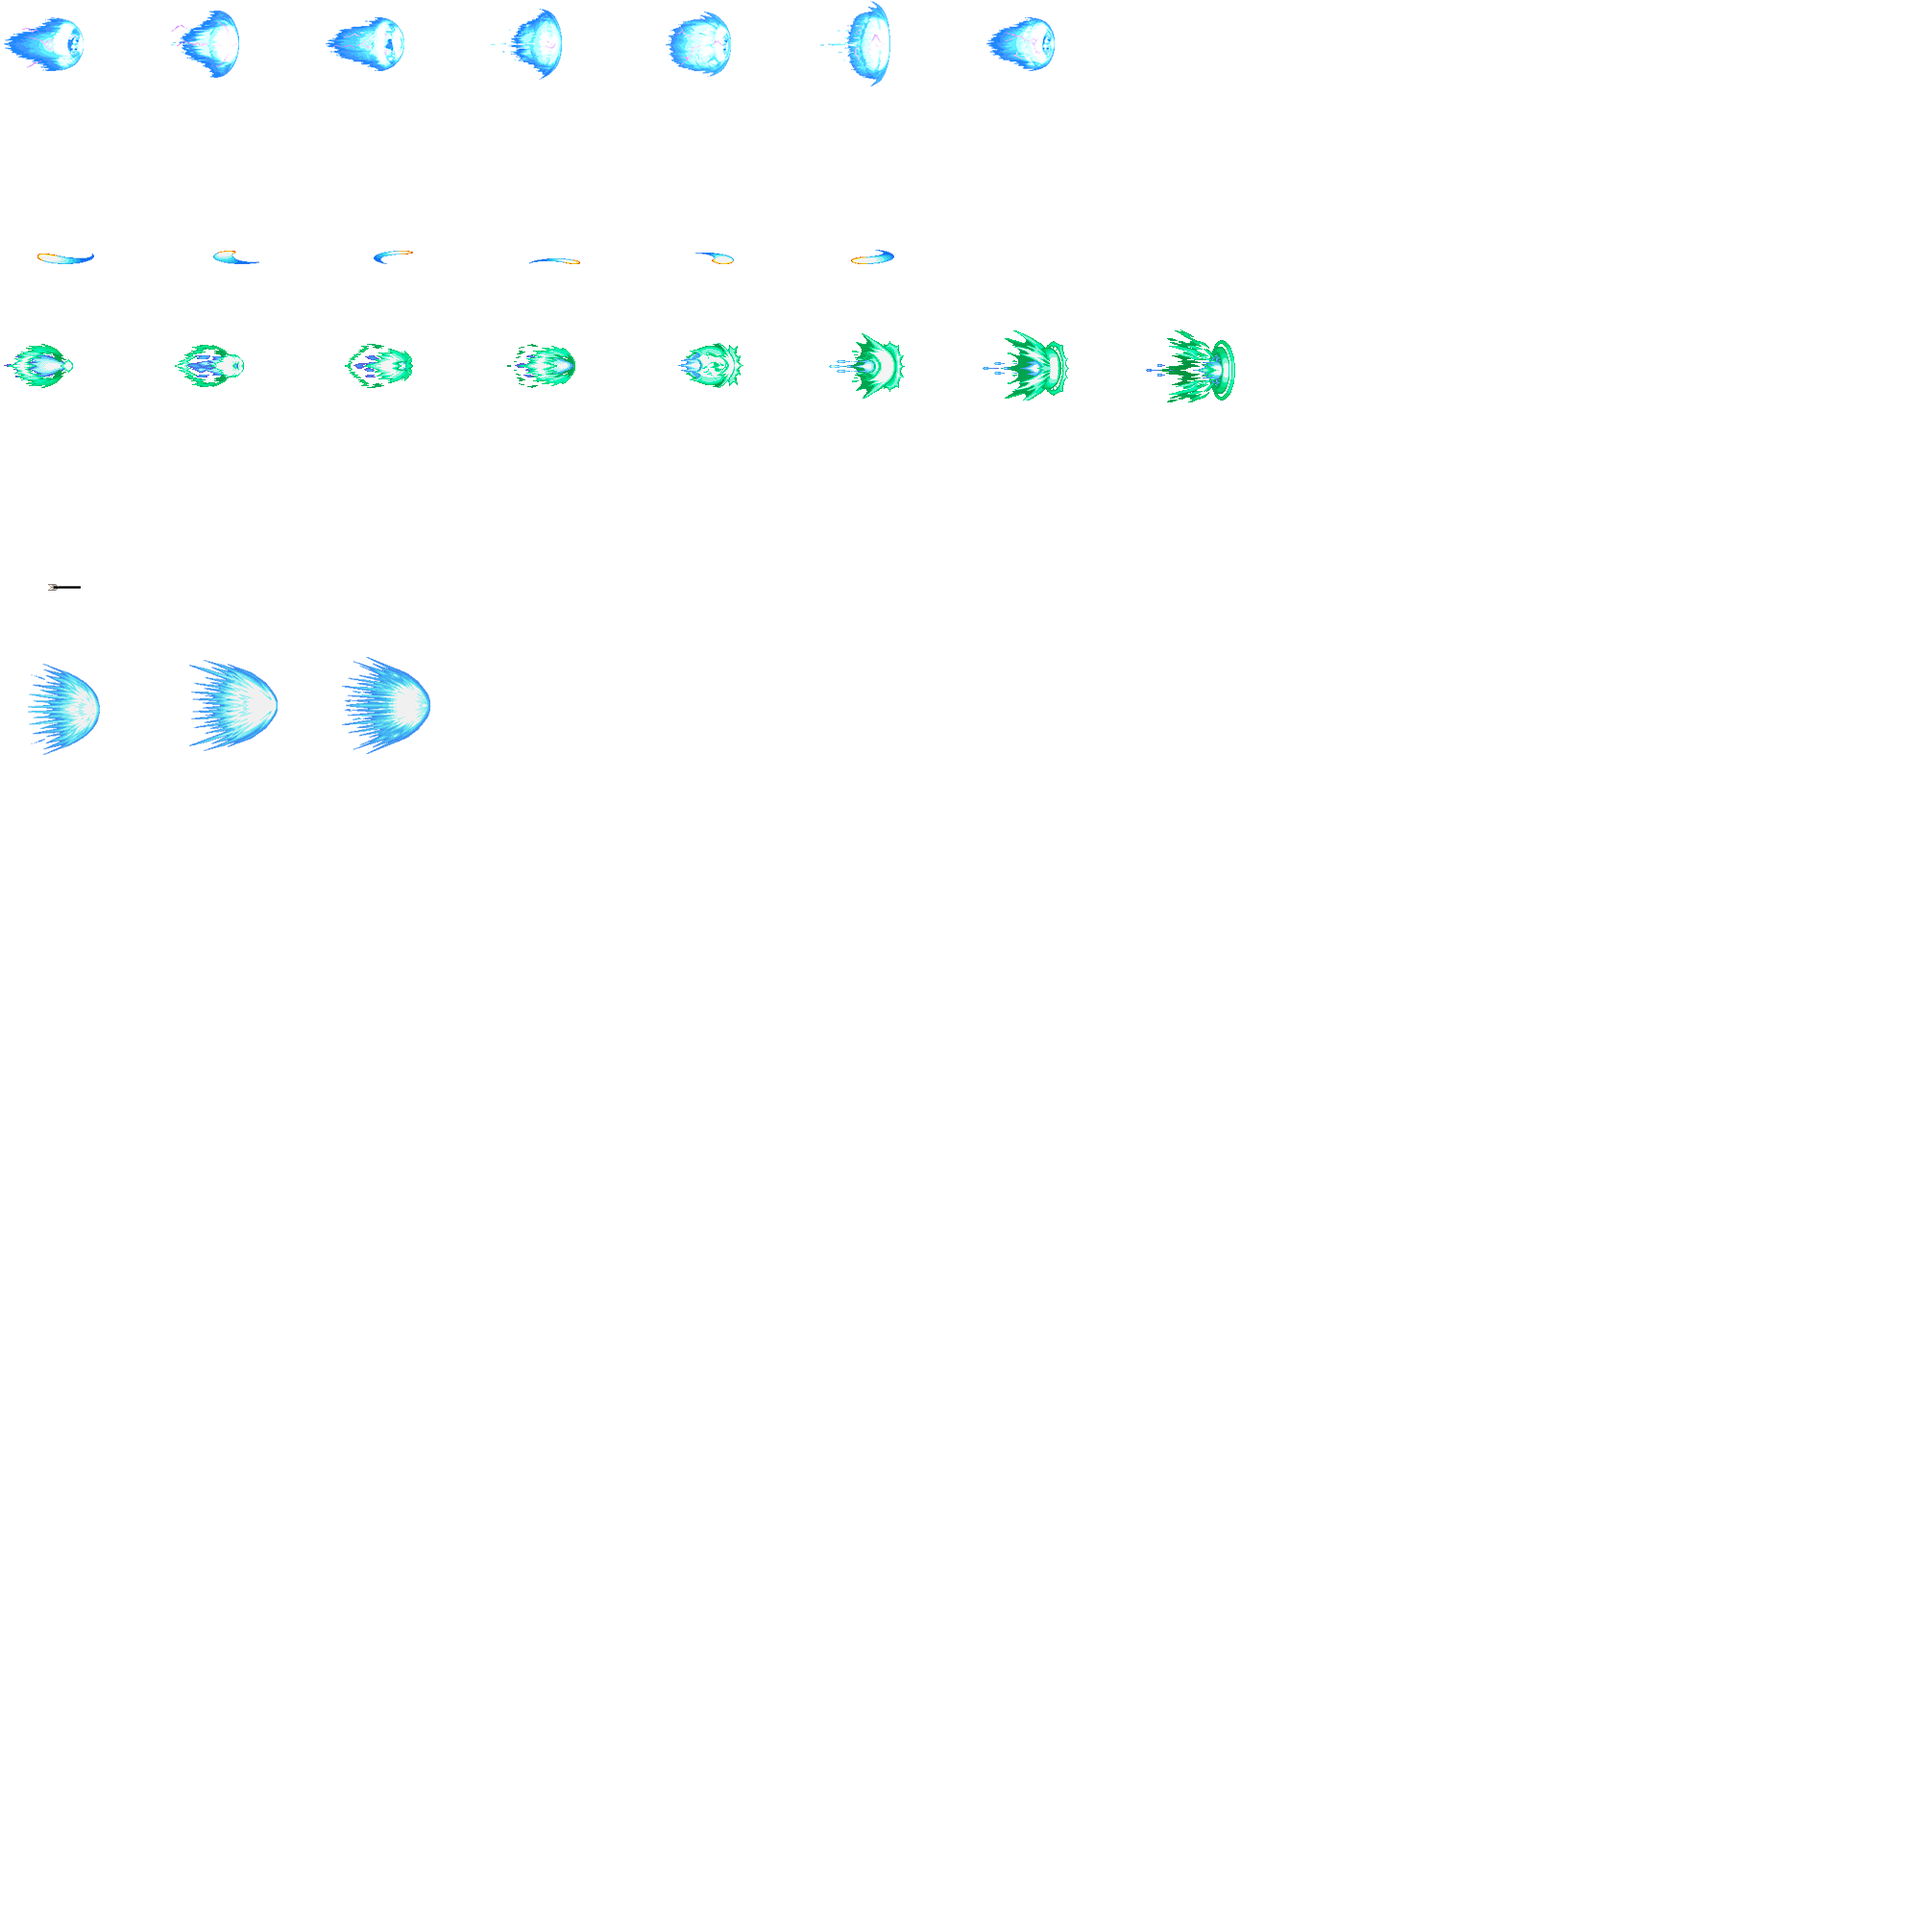
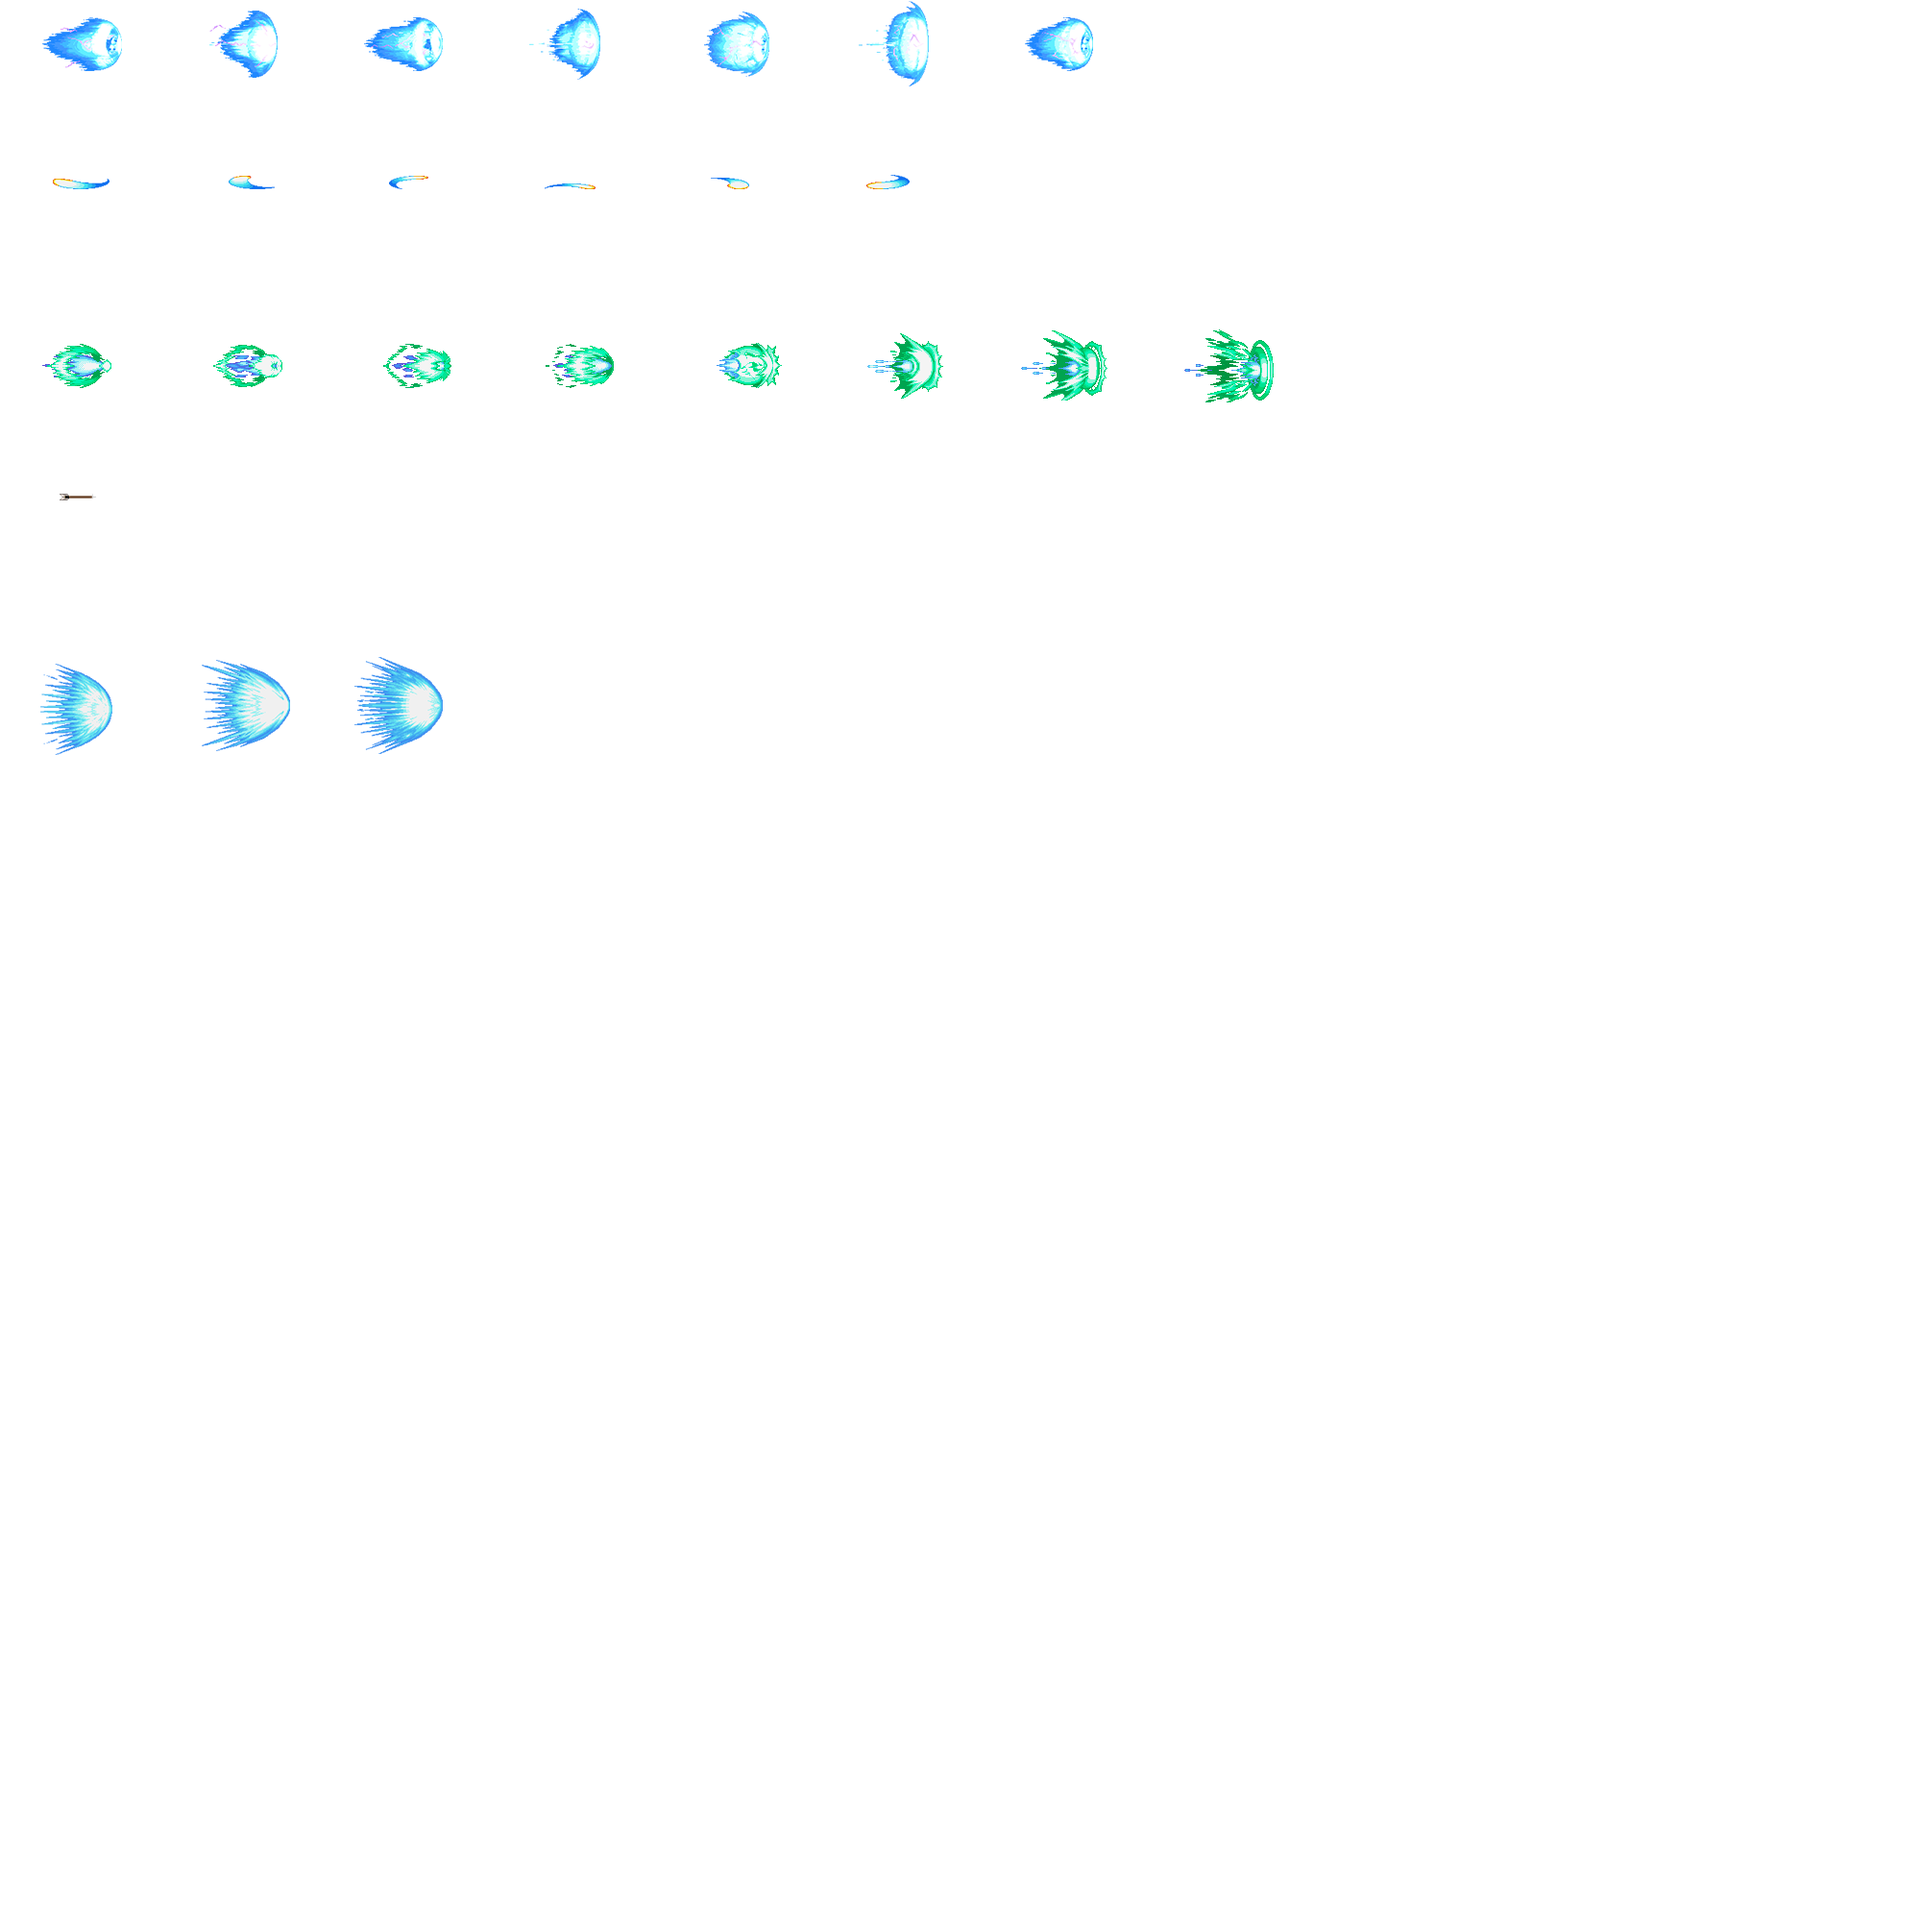
more projectile stuff

diff --git a/UltraBrawl/UltraBrawl/SpriteManager.cs b/UltraBrawl/UltraBrawl/SpriteManager.cs
@@ -373,9 +373,16 @@ namespace UltraBrawl
                         if (players[i].fire)
                         {
                             Debug.WriteLine(players[i].flipped);
-
+                            if (players[i].CHARACTER_ID == 0)
+                                spriteList.Add(new GokuKamehameha(blastSheet, new Vector2(players[i].hitbox.Center.X, players[i].hitbox.Center.Y), players[i].flipped));
                             if (players[i].CHARACTER_ID == 1)
-                            spriteList.Add(new MegamanBuster(blastSheet, new Vector2(players[i].hitbox.Center.X, players[i].hitbox.Center.Y), players[i].flipped));
+                                spriteList.Add(new MegamanBuster(blastSheet, new Vector2(players[i].hitbox.Center.X, players[i].hitbox.Center.Y), players[i].flipped));
+                            if (players[i].CHARACTER_ID == 2)
+                                spriteList.Add(new RyuHadouken(blastSheet, new Vector2(players[i].hitbox.Center.X, players[i].hitbox.Center.Y), players[i].flipped));
+                            if (players[i].CHARACTER_ID == 3)
+                                spriteList.Add(new GuileSonicBoom(blastSheet, new Vector2(players[i].hitbox.Center.X, players[i].hitbox.Center.Y), players[i].flipped));
+                            if (players[i].CHARACTER_ID == 7)
+                                spriteList.Add(new LyndisArrow(blastSheet, new Vector2(players[i].hitbox.Center.X, players[i].hitbox.Center.Y), players[i].flipped));
 
                             players[i].fire = false;
                         }

diff --git a/UltraBrawl/UltraBrawl/Projectiles/LyndisArrow.cs b/UltraBrawl/UltraBrawl/Projectiles/LyndisArrow.cs
@@ -10,27 +10,27 @@ namespace UltraBrawl
     {
         public LyndisArrow(Texture2D texture, Vector2 position, Boolean flipped)
             : base(new SpriteSheet(texture, new Point(24, 0), 1.0f), position,
-            new CollisionOffset(50, 50, 50, 50), new Vector2(20f, 1), flipped)
+            new CollisionOffset(10, 160, 70, 70), new Vector2(20f, 1), flipped)
         {
             if (flipped)
             {
                 this.speed.X = speed.X * -1;
-                this.velocity = new Vector2(-16, 0);
+                this.velocity = new Vector2(-64, 0);
                 this.position.X = position.X - 190;
                 
             } 
             else
             {
                 this.speed.X = speed.X;
-                this.velocity = new Vector2(16, 0);
+                this.velocity = new Vector2(64, 0);
                 this.position.X = position.X + 20;
                
             }
             this.position.Y = position.Y - 60;
             gravity = new Vector2(0, 0);
-            Point frameSize = new Point(150, 130);
-            spriteSheet.addSegment(frameSize, new Point(0, 0), new Point(0, 0), 10);
-
+            Point frameSize = new Point(170, 170);
+            currentFrame.Y = 3;
+            spriteSheet.addSegment(frameSize, new Point(0, 3), new Point(0, 3), 10);
             spriteSheet.setCurrentSegment(0);
         }
 

diff --git a/UltraBrawl/UltraBrawl/Characters/Lyndis.cs b/UltraBrawl/UltraBrawl/Characters/Lyndis.cs
@@ -18,7 +18,7 @@ namespace UltraBrawl
     class Lyndis : PlayerCharacter
     {
         // constants for this particular sprite
-       // static List<Texture2D> particleList;
+        //static List<Texture2D> particleList;
         //static ParticleEngine2D particleEngine;
         static Point lyndisNumberOfFrames = new Point(30, 20);
         static CollisionOffset lyndisCollisionOffset = new CollisionOffset(80, 1, 60, 60);
@@ -88,7 +88,7 @@ namespace UltraBrawl
             canJumpKick = true;
             canFire = true;
             CHARACTER_DAMAGE = 1;
-            CHARACTER_ID = 1;
+            CHARACTER_ID = 7;
             CHARACTER_NAME = "Lyndis";
         }
 
